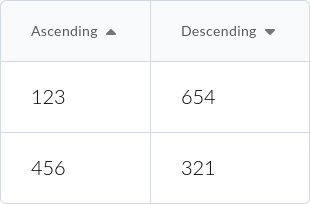
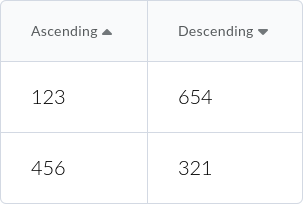
This will be required for the clickable sort buttons in the legacy grid

diff --git a/demo/index.html b/demo/index.html
@@ -562,14 +562,14 @@
     	<div class="screenshots screenshot-sort">
     		<!-- active only -->
     		<table is="d2l-table">
-    			<thead>
-    				<th>
-    					Ascending<d2l-table-col-sort></d2l-table-col-sort>
-    				</th>
-    				<th>
-    					Descending<d2l-table-col-sort desc></d2l-table-col-sort>
-    				</th>
-    			</thead>
+                <thead>
+                    <th>
+                        <button is="d2l-table-col-sort-button">Ascending</button>
+                    </th>
+                    <th>
+                        <button is="d2l-table-col-sort-button" desc>Descending</button>
+                    </th>
+                </thead>
     			<tbody>
     			<tr>
     				<td>123</td>
@@ -663,8 +663,8 @@
     		<table is="d2l-table">
     			<thead>
     			<tr>
-    				<th>First Name<d2l-table-col-sort></d2l-table-col-sort></th>
-    				<th>Last Name<d2l-table-col-sort desc></d2l-table-col-sort></th>
+                    <th><button is="d2l-table-col-sort-button">First Name</button></th>
+                    <th><button is="d2l-table-col-sort-button" desc>Last Name</button></th>
     				<th>Independent Assignments</th>
     				<th>Quizzes</th>
     				<th>Final Calculated Grade</th>

diff --git a/d2l-table-col-sort-button.html b/d2l-table-col-sort-button.html
@@ -1,0 +1,52 @@
+<link rel="import" href="../polymer/polymer.html">
+<link rel="import" href="d2l-table-col-sort.html">
+
+<dom-module id="d2l-table-col-sort-button">
+	<template strip-whitespace>
+		<style>
+			:host {
+				--d2l-table-col-sort-button: {
+					background-color: transparent;
+					border: none;
+					cursor: pointer;
+					display: inline-block;
+					font-family: inherit;
+					font-size: inherit;
+					color: inherit;
+					letter-spacing: inherit;
+					margin: 0;
+					padding: 0;
+					text-decoration: none;
+				};
+				--d2l-table-col-sort-button-hover: {
+					outline-style: none;
+				};
+			}
+			:host(::-moz-focus-inner) {
+				border: 0;
+			}
+			:host {
+				@apply(--d2l-table-col-sort-button);
+			}
+			:host(:disabled) {
+				opacity: 0.5;
+			}
+			:host(:hover),
+			:host(:focus) {
+				@apply(--d2l-table-col-sort-button-hover);
+			}
+		</style>
+		<content></content>
+		<d2l-table-col-sort desc="[[desc]]"></d2l-table-col-sort>
+	</template>
+	<script>
+		Polymer({
+			is: 'd2l-table-col-sort-button',
+			extends: 'button',
+
+			properties: {
+				desc: Boolean
+			}
+		});
+	</script>
+</dom-module>

diff --git a/d2l-table-col-sort.html b/d2l-table-col-sort.html
@@ -1,21 +1,13 @@
 <link rel="import" href="../polymer/polymer.html">
-<link rel="import" href="../iron-icon/iron-icon.html">
+<link rel="import" href="../d2l-icons/d2l-icon.html">
 <link rel="import" href="../d2l-icons/tier1-icons.html">
-<link rel="import" href="../d2l-colors/d2l-colors.html">
 
 <!--
 # D2L Table Column Sort
 -->
 <dom-module id="d2l-table-col-sort">
-	<template>
-		<style include="d2l-colors">
-			iron-icon {
-				--iron-icon-fill-color: var(--d2l-color-tungsten);
-				--iron-icon-height: 18px;
-				--iron-icon-width: 18px;
-			}
-		</style>
-		<iron-icon icon="d2l-tier1:[[_icon(desc)]]"></iron-icon>
+	<template strip-whitespace>
+		<d2l-icon icon="[[icon]]"></d2l-icon>
 	</template>
 	<script>
 		Polymer({
@@ -24,10 +16,14 @@
 				desc: {
 					type: Boolean,
 					value: false
+				},
+				icon: {
+					type: String,
+					computed: '_icon(desc)'
 				}
 			},
 			_icon: function(desc) {
-				return desc ? 'arrow-toggle-down' : 'arrow-toggle-up';
+				return desc ? 'd2l-tier1:arrow-toggle-down' : 'd2l-tier1:arrow-toggle-up';
 			}
 		});
 	</script>

diff --git a/demo/index.rtl.html b/demo/index.rtl.html
@@ -542,12 +542,8 @@
 	<!-- active only -->
 	<table is="d2l-table">
 		<thead>
-		<th>
-			Ascending<d2l-table-col-sort></d2l-table-col-sort>
-		</th>
-		<th>
-			Descending<d2l-table-col-sort desc></d2l-table-col-sort>
-		</th>
+			<th><button is="d2l-table-col-sort-button">Ascending</button></th>
+			<th><button is="d2l-table-col-sort-button" desc>Descending</button></th>
 		</thead>
 		<tbody>
 		<tr>
@@ -642,8 +638,8 @@
 	<table is="d2l-table">
 		<thead>
 		<tr>
-			<th>First Name<d2l-table-col-sort></d2l-table-col-sort></th>
-			<th>Last Name<d2l-table-col-sort desc></d2l-table-col-sort></th>
+			<th><button is="d2l-table-col-sort-button">First Name</button></th>
+			<th><button is="d2l-table-col-sort-button" desc>Last Name</button></th>
 			<th>Independent Assignments</th>
 			<th>Quizzes</th>
 			<th>Final Calculated Grade</th>

diff --git a/demo/simple-demo.html b/demo/simple-demo.html
@@ -96,10 +96,10 @@
 			<table is="d2l-table">
 				<thead>
 					<th>
-						Ascending<d2l-table-col-sort></d2l-table-col-sort>
+						<button is="d2l-table-col-sort-button">Ascending</button>
 					</th>
 					<th>
-						Descending<d2l-table-col-sort desc></d2l-table-col-sort>
+						<button is="d2l-table-col-sort-button" desc>Descending</button>
 					</th>
 				</thead>
 				<tbody>

diff --git a/d2l-table.html b/d2l-table.html
@@ -1,6 +1,6 @@
 <link rel="import" href="../polymer/polymer.html">
 <link rel="import" href="d2l-table-wrapper.html">
-<link rel="import" href="d2l-table-col-sort.html">
+<link rel="import" href="d2l-table-col-sort-button.html">
 
 <!--
 # D2L Table
